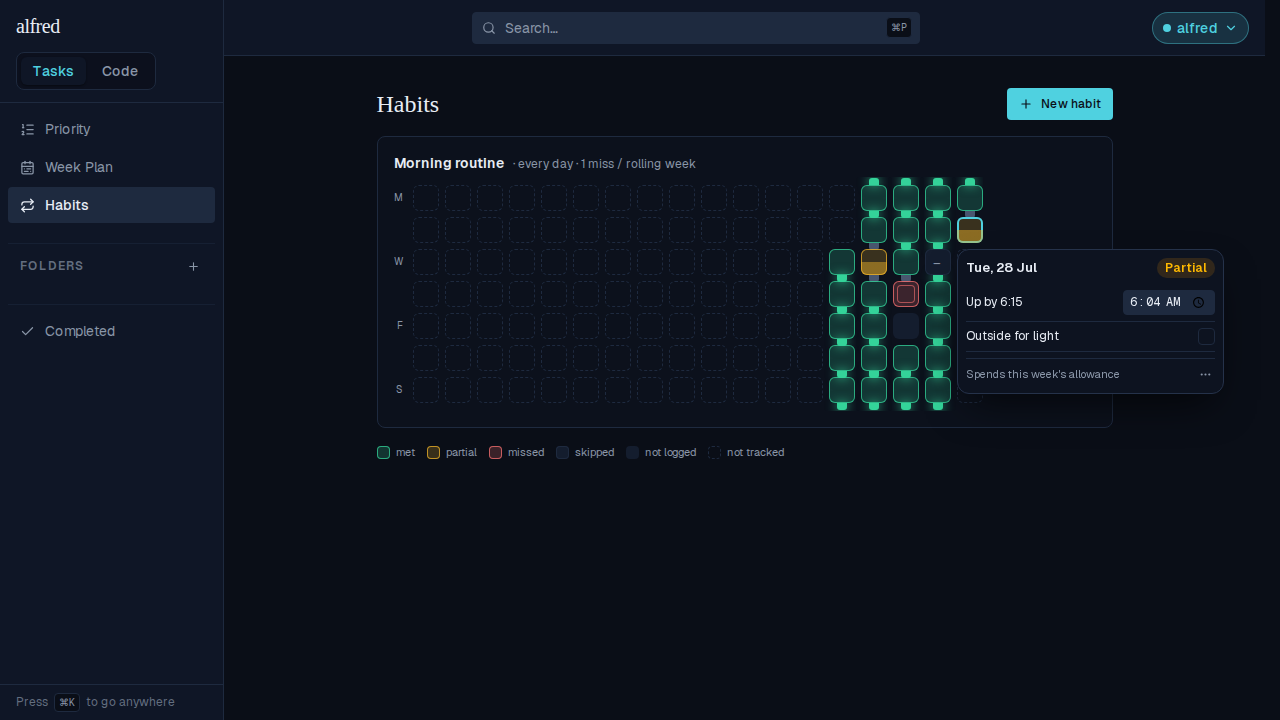
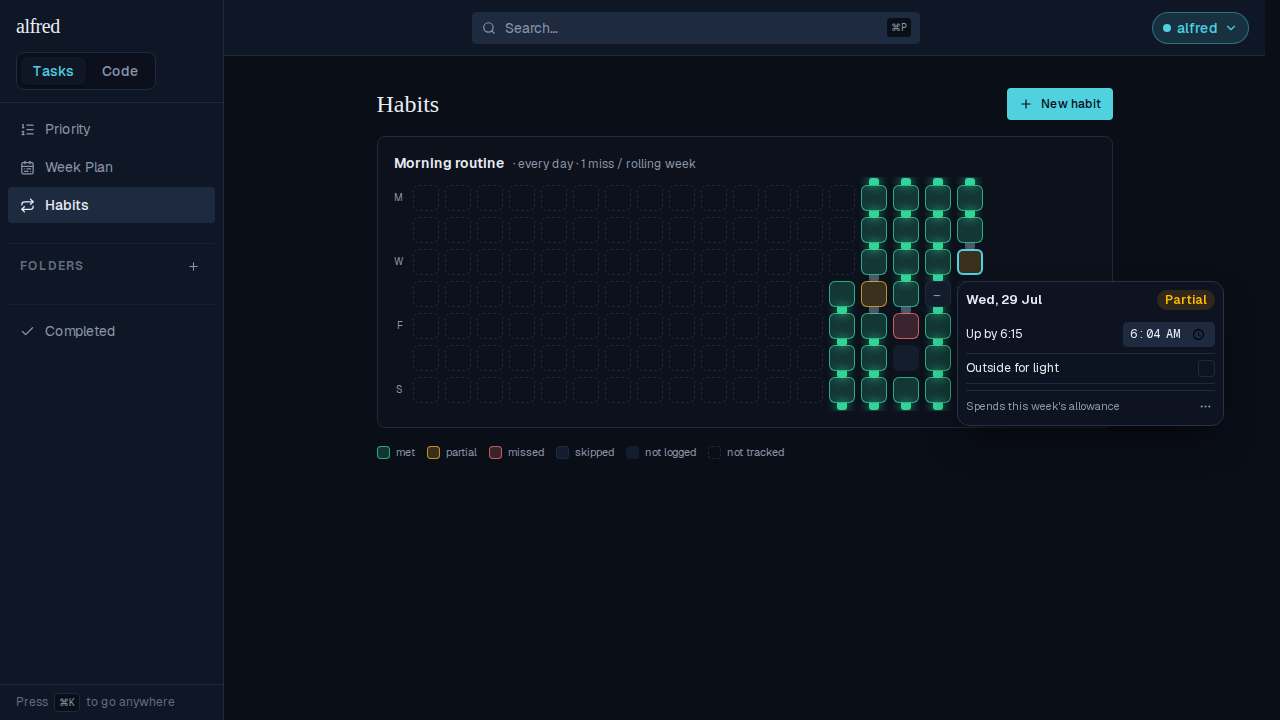
docs(demos): recapture the chain with plain squares

Changed region(s): [[0.75, 0.3361, 0.9688, 0.5806], [0.625, 0.275, 0.8125, 0.5194]]

diff --git a/docs/demos/habit-tracker/habit-tracker.md b/docs/demos/habit-tracker/habit-tracker.md
@@ -89,7 +89,9 @@ Weekdays down, ISO weeks across. The sidebar carries a **1** — today is scored
 
 ![](habit-tracker-image-5.png)
 
-Close up, the connectors are the streak walk made visible. A forgiven `partial` keeps the run alive but its links either side go **grey**; the `missed` day below it is followed by an unlogged one, and two spent days in one rolling week exceed the allowance, so **nothing crosses** — the run restarts underneath. The `skipped` day (the dash) costs nothing, so its links stay **lit**. Today carries the teal ring.
+Close up, the connectors are the streak walk made visible. A forgiven `partial` keeps the run alive but its links either side go **grey**; the `missed` day a column over is followed by an unlogged one, and two spent days in one rolling week exceed the allowance, so **nothing crosses** — the run restarts underneath. The `skipped` day costs nothing, so its links stay **lit**. Today carries the teal ring.
+
+Every square is a plain plate: each outcome has its own hue and its own legend swatch, so a mark layered on the face would only be one more thing to decode for a distinction the colour has already made. The one exception is the dash on the skipped day — excused and unlogged share a neutral plate, so that pair is the only one colour can't tell apart.
 
 ![](habit-tracker-image-6.png)
 
@@ -120,7 +122,7 @@ cat docs/demos/habit-tracker/skipped-cell-name.txt
 ```
 
 ```output
-Tuesday 28 July — skipped: flu, off all week
+Wednesday 29 July — skipped: flu, off all week
 ```
 
 ## The keyed write
